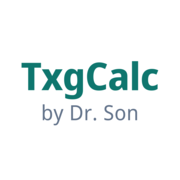
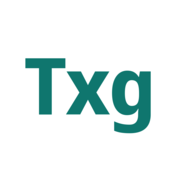
style: update application branding and assets
Simplify the logo to "Txg" and refresh application icons.

Changed region(s): [[0.1111, 0.3056, 0.8889, 0.75]]

diff --git a/index.html b/index.html
@@ -9,10 +9,10 @@
     <meta name="apple-mobile-web-app-capable" content="yes" />
     <meta name="apple-mobile-web-app-status-bar-style" content="default" />
     <meta name="apple-mobile-web-app-title" content="TxgCalc®" />
-    <link rel="icon" type="image/svg+xml" href="/icon.svg?v=2" />
-    <link rel="icon" type="image/png" sizes="32x32" href="/favicon-32x32.png?v=2" />
-    <link rel="apple-touch-icon" sizes="180x180" href="/apple-touch-icon.png?v=2" />
-    <link rel="manifest" href="/manifest.json?v=2" />
+    <link rel="icon" type="image/svg+xml" href="/icon.svg?v=3" />
+    <link rel="icon" type="image/png" sizes="32x32" href="/favicon-32x32.png?v=3" />
+    <link rel="apple-touch-icon" sizes="180x180" href="/apple-touch-icon.png?v=3" />
+    <link rel="manifest" href="/manifest.json?v=3" />
   </head>
   <body>
     <div id="root"></div>
